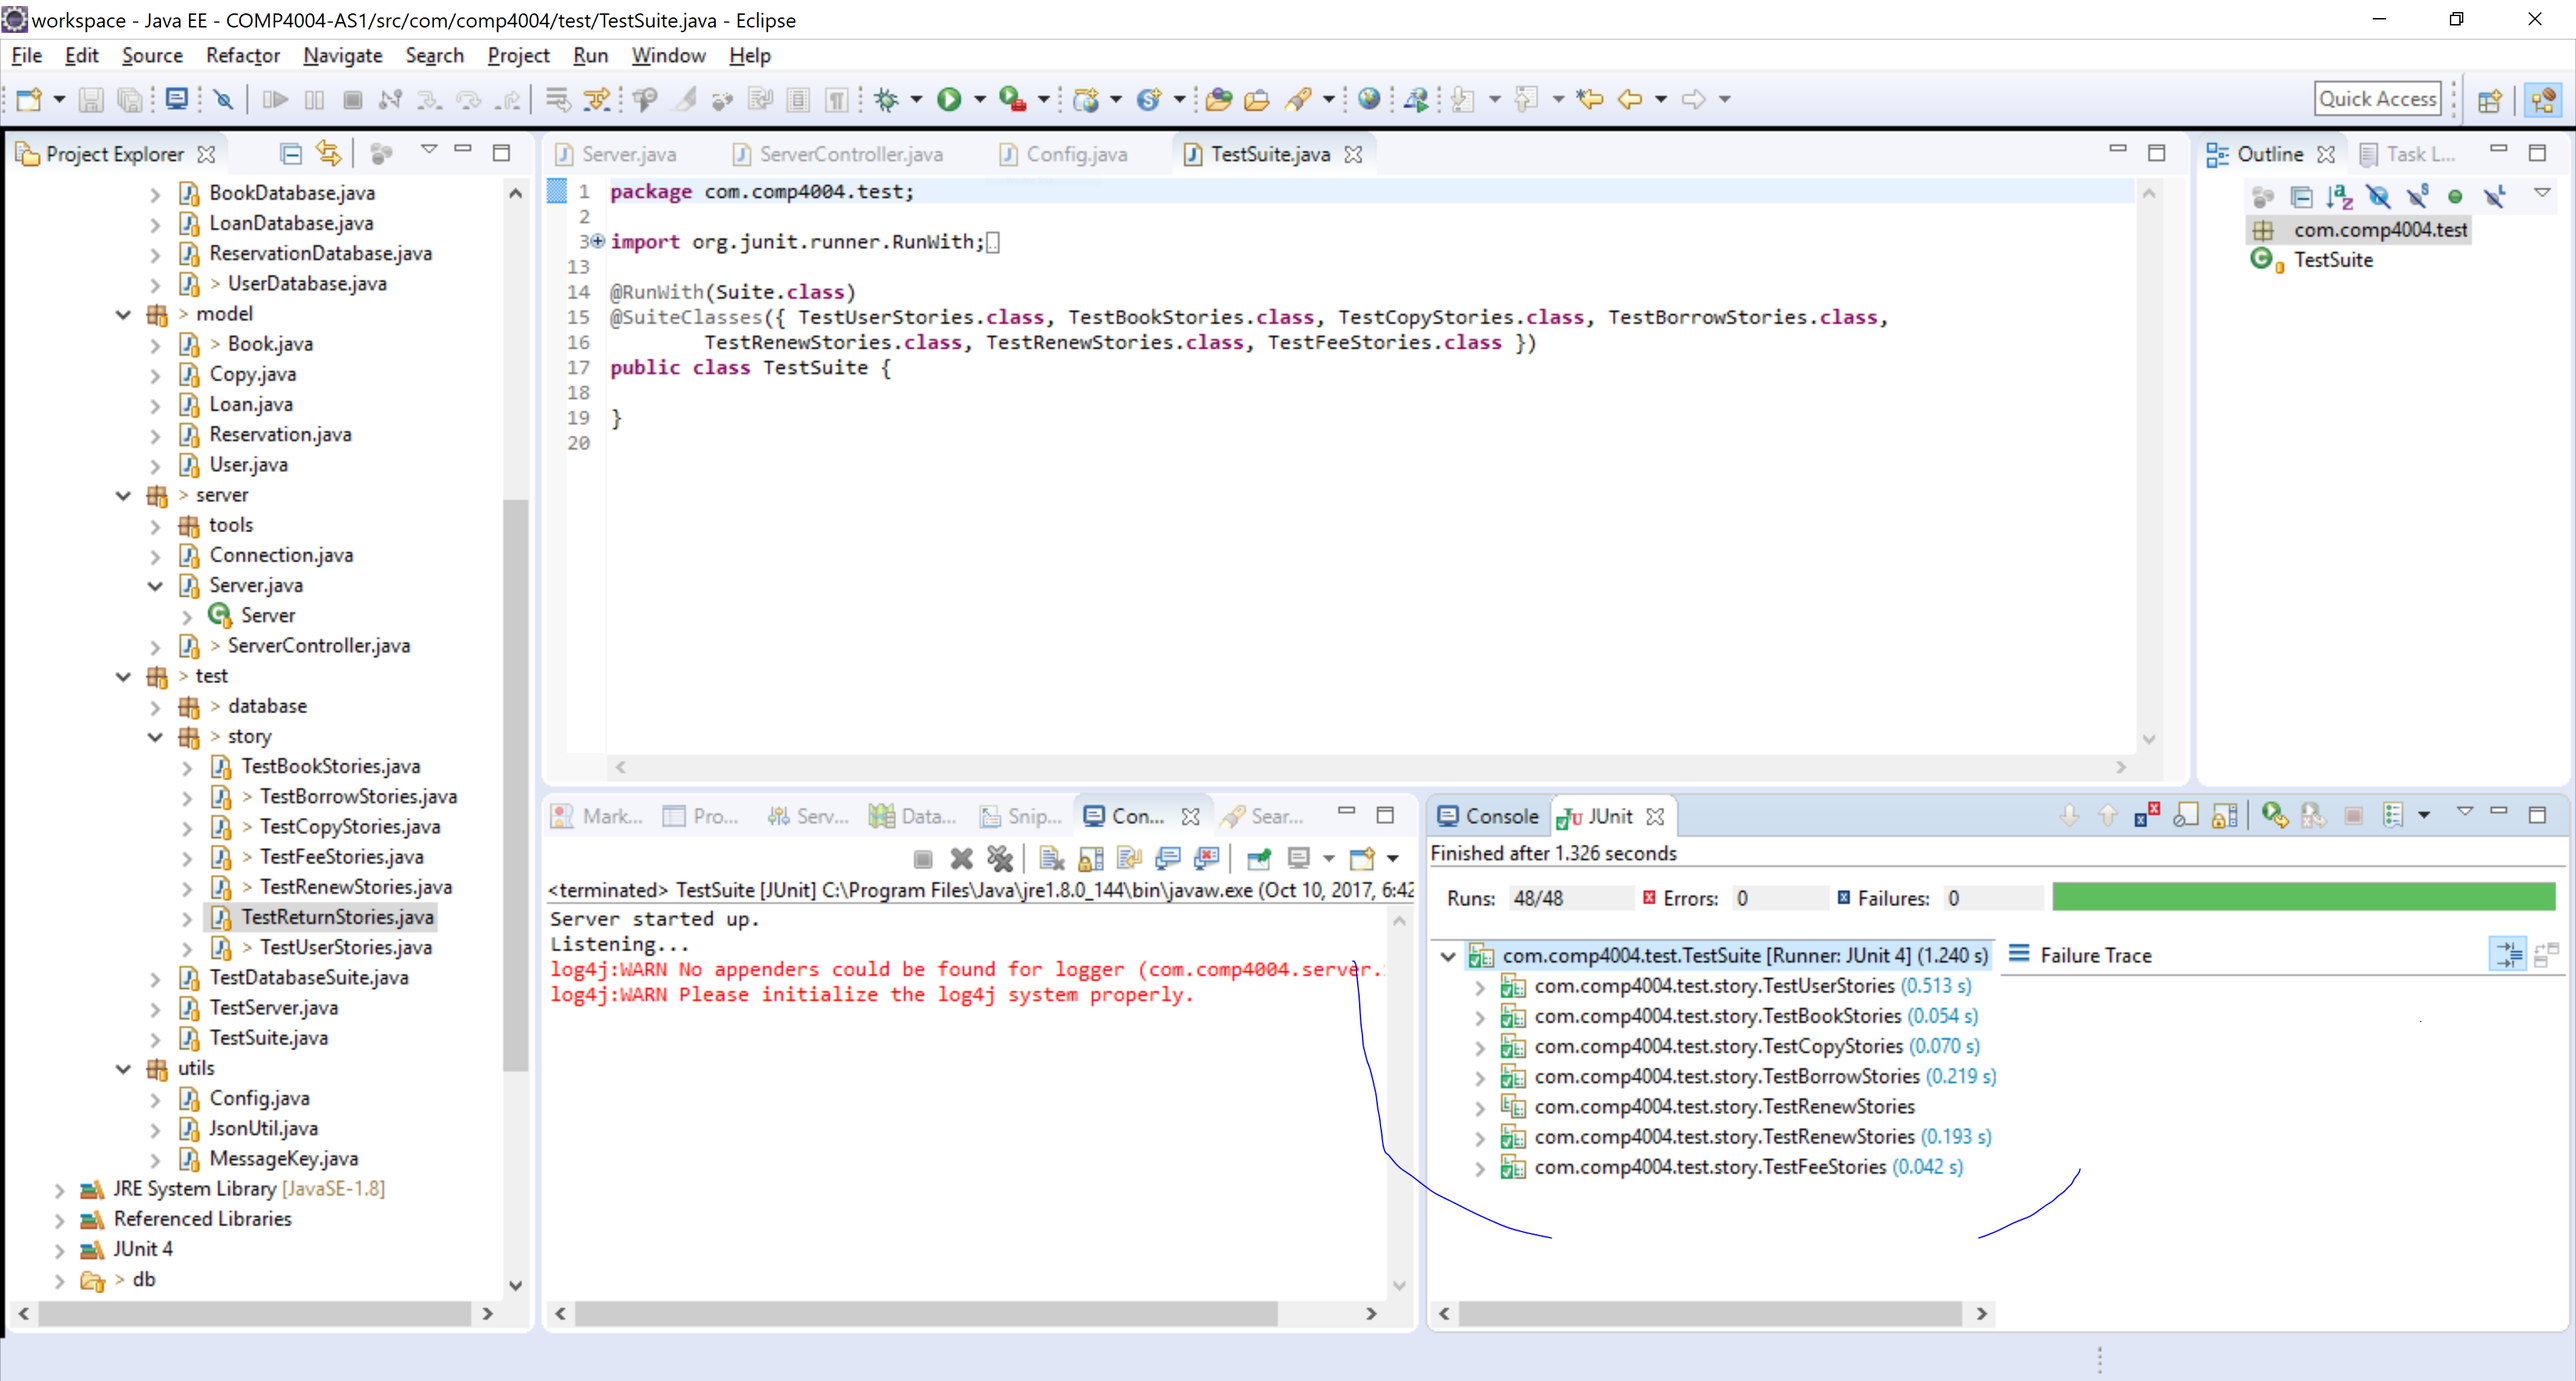
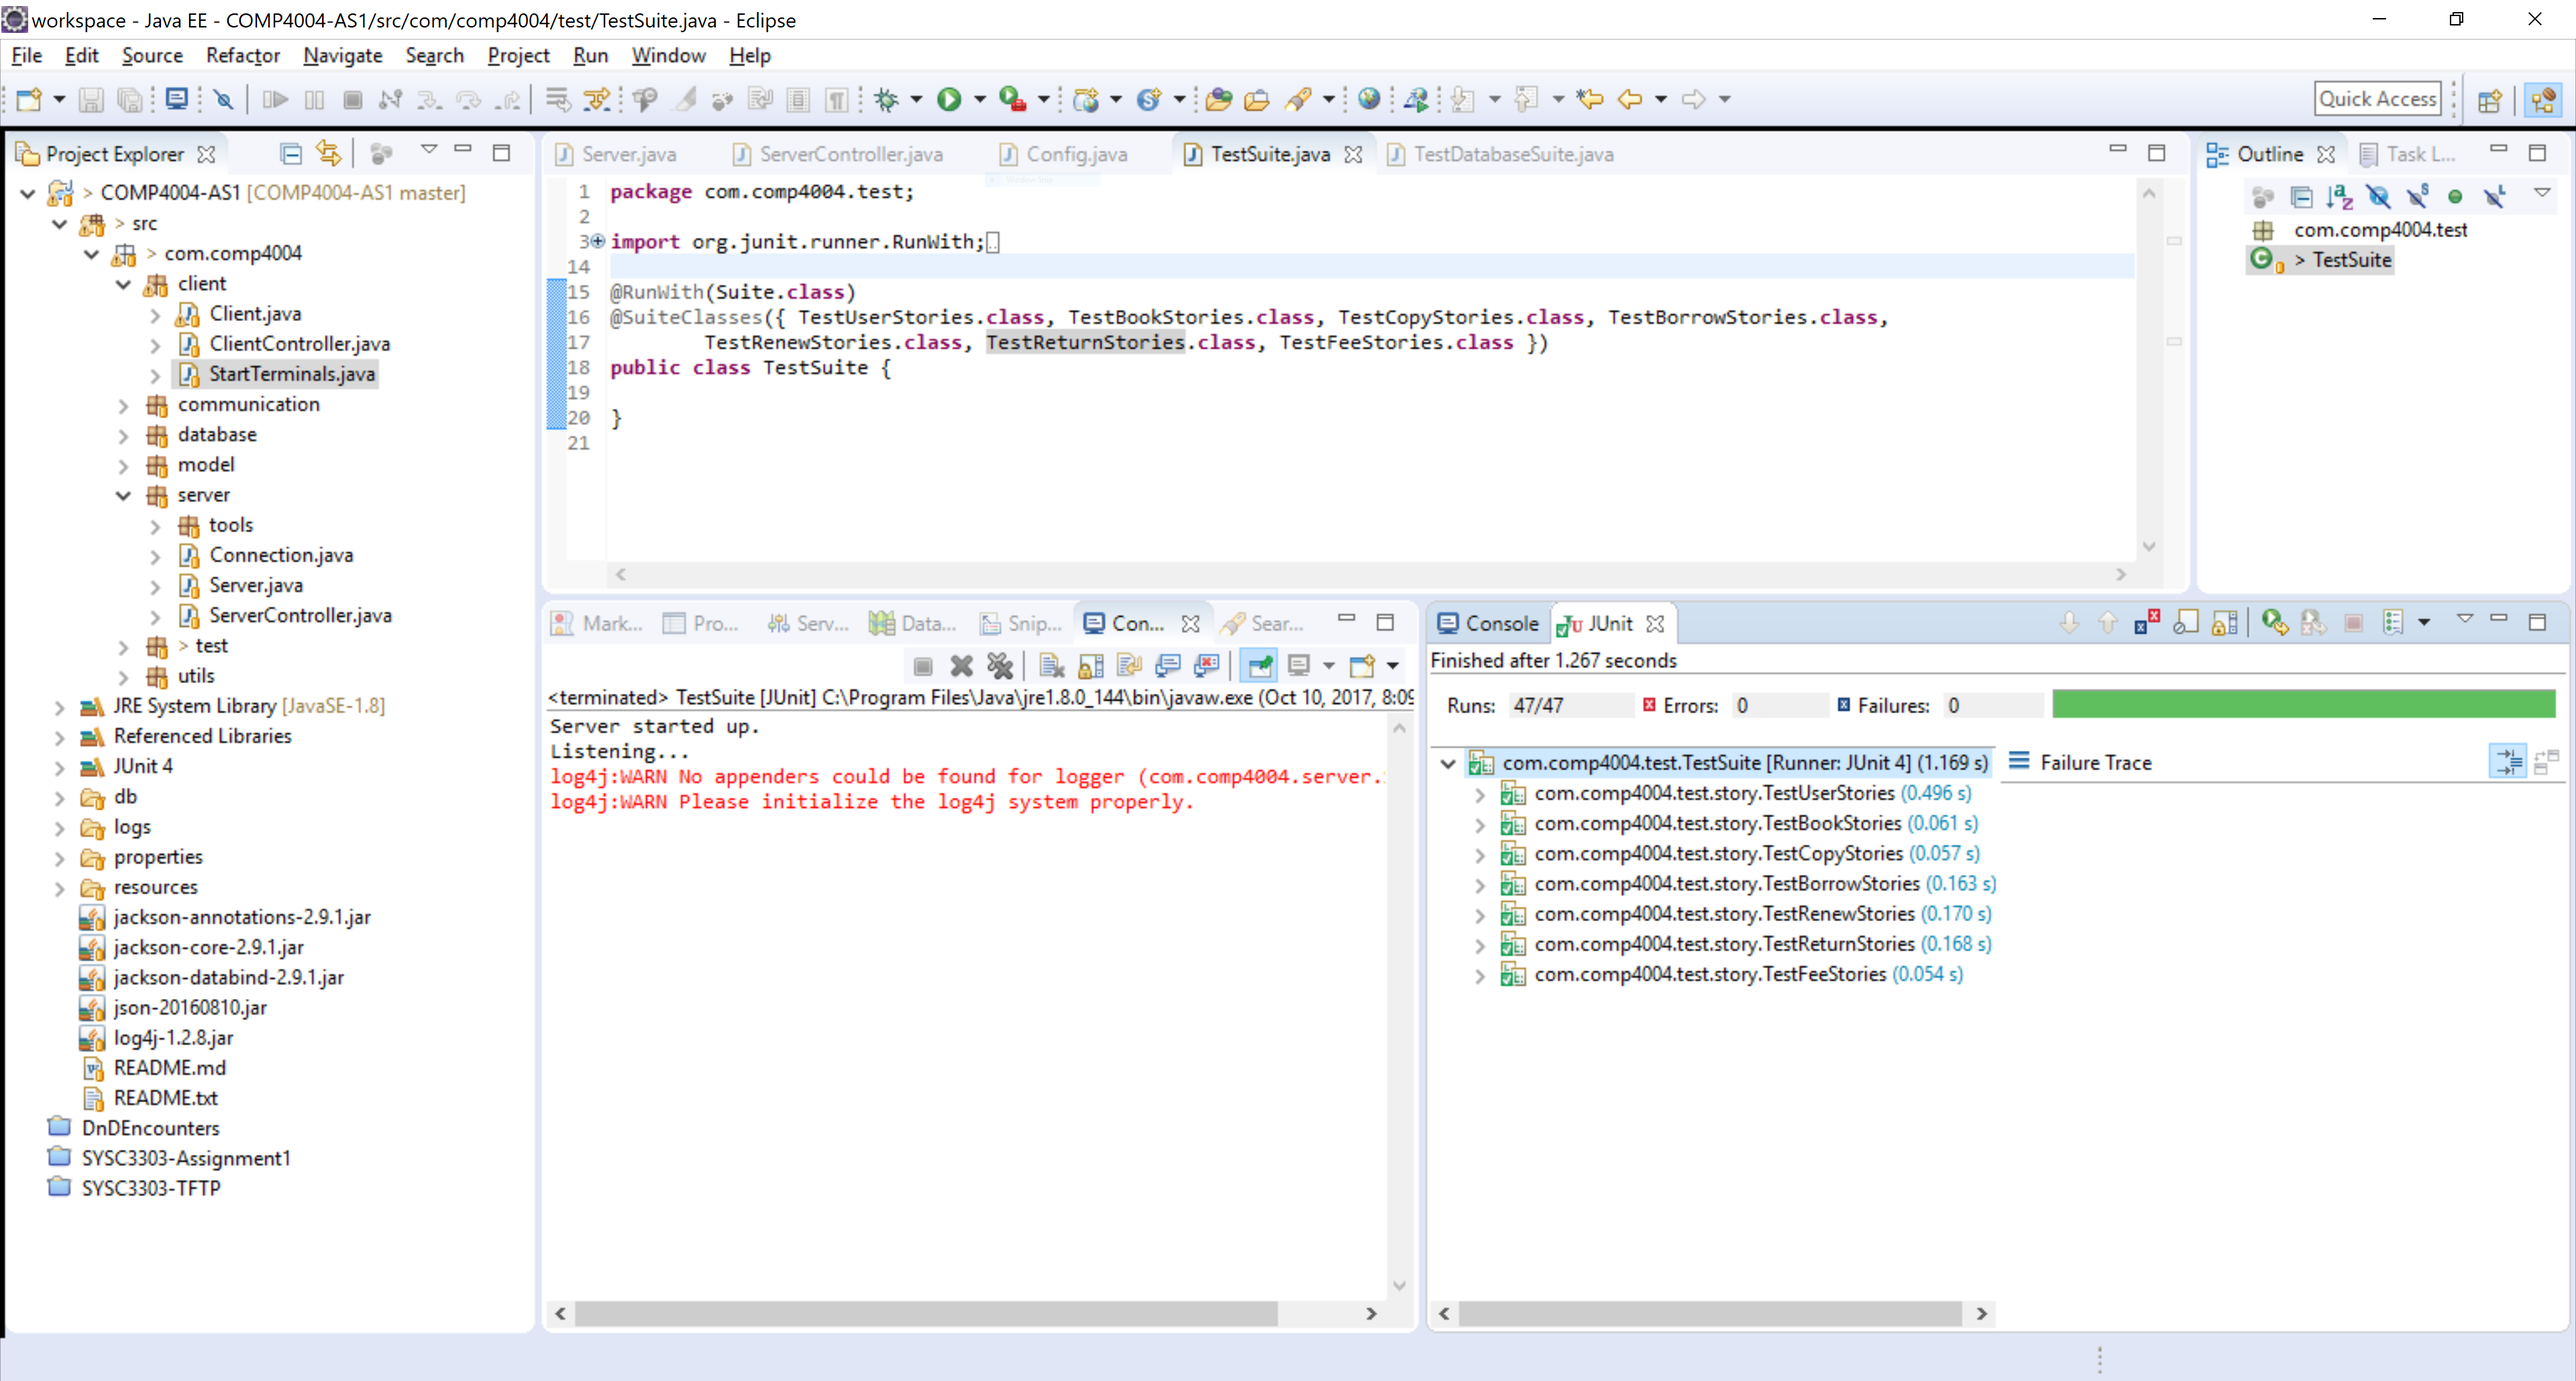
Added test documentation

diff --git a/src/com/comp4004/test/TestSuite.java b/src/com/comp4004/test/TestSuite.java
@@ -9,11 +9,12 @@ import com.comp4004.test.story.TestBorrowStories;
 import com.comp4004.test.story.TestCopyStories;
 import com.comp4004.test.story.TestFeeStories;
 import com.comp4004.test.story.TestRenewStories;
+import com.comp4004.test.story.TestReturnStories;
 import com.comp4004.test.story.TestUserStories;
 
 @RunWith(Suite.class)
 @SuiteClasses({ TestUserStories.class, TestBookStories.class, TestCopyStories.class, TestBorrowStories.class,
-		TestRenewStories.class, TestRenewStories.class, TestFeeStories.class })
+		TestRenewStories.class, TestReturnStories.class, TestFeeStories.class })
 public class TestSuite {
 
 }
